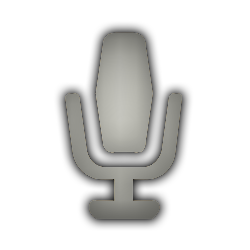
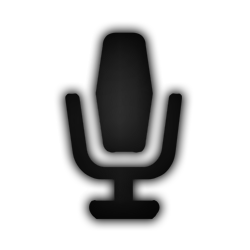
changed sleeping mic color

Changed region(s): [[0.252, 0.364, 0.728, 0.896], [0.364, 0.112, 0.616, 0.616]]

diff --git a/Assets/Scripts/SubtitleManager.cs b/Assets/Scripts/SubtitleManager.cs
@@ -53,8 +53,8 @@ public class SubtitleManager : MonoBehaviour
         // Start dictation recognizer.
         dictationRecognizer.Start();
 
-        dictationRecognizer.InitialSilenceTimeoutSeconds = (10000);
-        dictationRecognizer.AutoSilenceTimeoutSeconds = (10000);
+        dictationRecognizer.InitialSilenceTimeoutSeconds = 10000;
+        dictationRecognizer.AutoSilenceTimeoutSeconds = 10000;
         
 
     }
